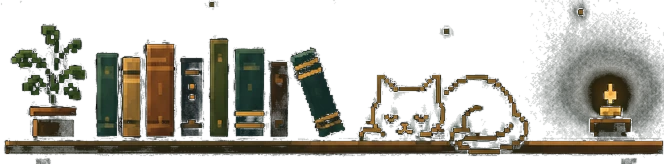
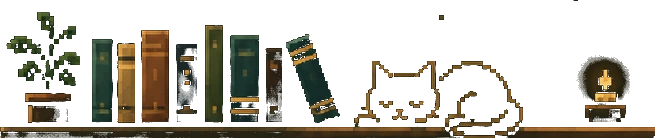
Raise the token budget, and take the stricter asset pack
The character map still failed after the last deploy. Measuring against the
live site found the boundary: it builds at max_tokens 4000 and fails at 1000.
So reasoning_effort did its part, but the app asked for 1000 on every call,
which the reasoning consumed before a word was written. The shared budget goes
to 3000 and the character map to 4000 — a ceiling is not a charge, and the
tight one caused exactly the failure it was meant to bound.

The new asset pack answers the prompt properly. Verified independently rather
than trusting its report: all fourteen exports have one connected block, are
cropped tight, exceed 150 luminance where they sit on dark, and carry at least
twice the resolution they are displayed at. Display widths now come from its
manifest instead of being guessed.

Nine assets were declared skipped with reasons rather than handed over broken —
among them the globe and chevron that were unusable last time, and the divider
book at luminance 85 against a dark ground. Those keep their glyph
substitutes. The shelf ships whole, so the cat and candle skipped as separate
cutouts lose nothing.

Three exports went unused — the loose book cluster and two sparkles the shelf
and the star layer already cover — and are not committed. What remains is
64 KB, down from 100.

diff --git a/src/App.jsx b/src/App.jsx
@@ -248,7 +248,7 @@ async function apiCall(body) {
   const response = await fetch(API_ENDPOINT, {
     method: "POST",
     headers: { "Content-Type": "application/json" },
-    body: JSON.stringify({ max_tokens: 1000, ...body }),
+    body: JSON.stringify({ max_tokens: 3000, ...body }),
   });
   const data = await response.json();
   if (!data.content) throw new Error(apiError(data, response.status));
@@ -355,7 +355,9 @@ TEASER: <текст загадки>`;
 
 async function buildCharMap(chat, lang) {
   const sum = chat.summary ? `\nИз разговора с читателем уже известно: ${chat.summary}` : "";
-  return apiCall({ messages: [{ role: "user", content: `Книга: «${chat.book}». ${chat.bookInfo ? `Описание: ${chat.bookInfo}.` : ""}${sum}\nЧитатель дочитал до: ${chat.finished ? "конца книги" : chat.progress}.
+  // Промпт с тремя запретами подряд заставляет модель взвешивать каждого
+  // героя, и на 1000 токенах раздумья съедали весь бюджет до первого слова.
+  return apiCall({ max_tokens: 4000, messages: [{ role: "user", content: `Книга: «${chat.book}». ${chat.bookInfo ? `Описание: ${chat.bookInfo}.` : ""}${sum}\nЧитатель дочитал до: ${chat.finished ? "конца книги" : chat.progress}.
 
 Составь список персонажей, которые уже встретились К ЭТОМУ МЕСТУ. СТРОГО:
 - НЕ упоминай героев, появляющихся позже, и НЕ раскрывай про них будущих фактов (это спойлер).
@@ -1491,9 +1493,9 @@ function AuthScreen({ t, lang, onLangCycle, onGuest, problem }) {
       <h1 className="pxfont" style={{ display: "flex", alignItems: "center", justifyContent: "center",
         gap: 10, fontSize: 20, color: T.gold, margin: "6px 0 0", lineHeight: 1.4,
         textShadow: `0 0 14px rgba(244,185,73,0.35)` }}>
-        <img src={la("sparkle_title_left")} alt="" style={{ width: 16, height: "auto" }} />
+        <img src={la("title_sparkle_left")} alt="" style={{ width: 10, height: "auto" }} />
         ЧИТАЕМ ВМЕСТЕ
-        <img src={la("sparkle_title_right")} alt="" style={{ width: 13, height: "auto" }} />
+        <img src={la("title_sparkle_right")} alt="" style={{ width: 11, height: "auto" }} />
       </h1>
 
       <div className="pxfont" style={{ fontSize: 9, color: T.white, opacity: 0.85, marginTop: 10,
@@ -1508,7 +1510,7 @@ function AuthScreen({ t, lang, onLangCycle, onGuest, problem }) {
         {features.map(([icon, text], i) => (
           <div key={icon} style={{ display: "flex", alignItems: "center", gap: 12, padding: "13px 0",
             borderTop: i ? `1px dashed ${T.outline}` : "none" }}>
-            <img src={la(icon)} alt="" style={{ width: 26, height: "auto", flexShrink: 0 }} />
+            <img src={la(icon)} alt="" style={{ width: 22, height: "auto", flexShrink: 0 }} />
             <span className="hand" style={{ fontSize: 17, color: T.white, lineHeight: 1.3 }}>{text}</span>
           </div>
         ))}
@@ -1524,14 +1526,14 @@ function AuthScreen({ t, lang, onLangCycle, onGuest, problem }) {
         {AUTH_PROVIDERS.map((p) => {
           const inner = (
             <>
-              <img src={la(p.logo)} alt="" style={{ width: 28, height: "auto", flexShrink: 0,
+              <img src={la(p.logo)} alt="" style={{ width: 24, height: "auto", flexShrink: 0,
                 filter: p.ready ? "none" : "grayscale(1)", opacity: p.ready ? 1 : 0.55 }} />
               <span className="pxfont" style={{ flex: 1, textAlign: "left", fontSize: p.ready ? 11 : 10,
                 lineHeight: 1.5 }}>
                 {p.ready ? `${t("authWith")} ${p.label}` : p.label}
               </span>
               {p.ready
-                ? <img src={la("primary_arrow")} alt="" style={{ width: 16, height: "auto", flexShrink: 0 }} />
+                ? <img src={la("primary_arrow")} alt="" style={{ width: 12, height: "auto", flexShrink: 0 }} />
                 : <span className="hand" style={{ fontSize: 16, color: T.muted, flexShrink: 0 }}>{t("authSoon")}</span>}
             </>
           );
@@ -1554,7 +1556,7 @@ function AuthScreen({ t, lang, onLangCycle, onGuest, problem }) {
       {/* Разделитель: дальше — вход не обязателен. */}
       <div style={{ display: "flex", alignItems: "center", gap: 12, width: "100%", maxWidth: 360, marginTop: 26 }}>
         <div style={{ flex: 1, borderTop: `1px dashed ${T.outline}` }} />
-        <img src={la("divider_book_icon")} alt="" style={{ width: 26, height: "auto" }} />
+        <span style={{ fontSize: 15, lineHeight: 1, opacity: 0.75 }}>📖</span>
         <div style={{ flex: 1, borderTop: `1px dashed ${T.outline}` }} />
       </div>
 

diff --git a/docs/BUGS.md b/docs/BUGS.md
@@ -31,7 +31,16 @@
 отключает параметр совсем. Если модель его не принимает, запрос автоматически
 повторяется без него. Потолок `max_tokens` поднят с 4000 до 16000.
 
-**Осталось:** выкатить и убедиться, что карта строится.
+**Первая попытка не помогла.** После выкатки карта всё равно падала. Замер на
+живом сайте показал границу: при `max_tokens=4000` карта строится, при 1000 —
+нет. То есть `reasoning_effort` подействовал, но приложение просило слишком
+маленький бюджет — оно посылало 1000 токенов на любой запрос.
+
+**Что доделано:** общий бюджет поднят до 3000, карте героев выделено 4000.
+Потолок — не расход: платят за фактически использованные токены, а тесный
+лимит приводил ровно к тому, что рассуждение съедало всё до первого слова.
+
+**Осталось:** выкатить и убедиться на живом сайте.
 
 ### 2. «🎁 Удиви меня» повторяет книги — ИСПРАВЛЕНО В КОДЕ, ждёт выкатки
 
